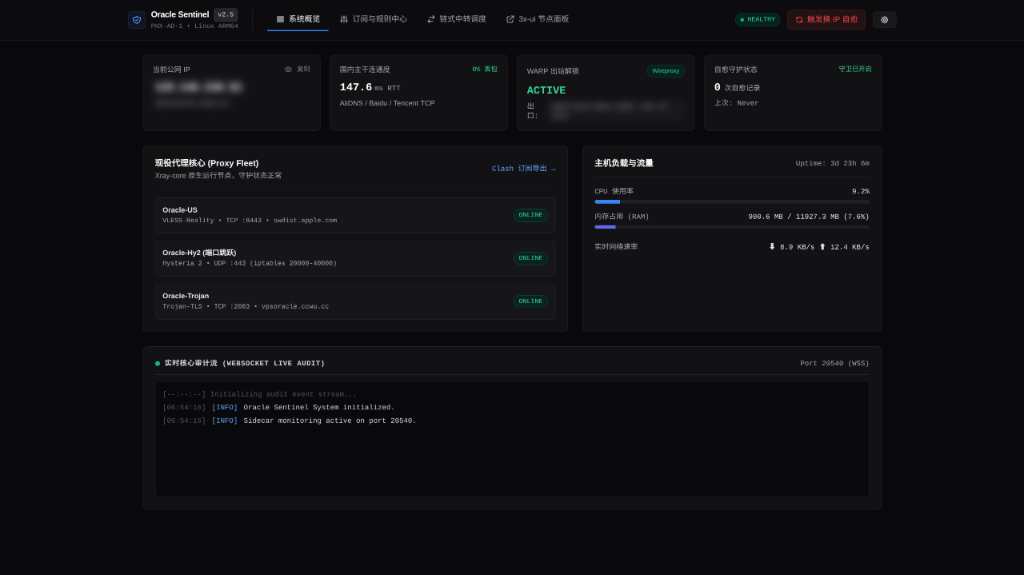
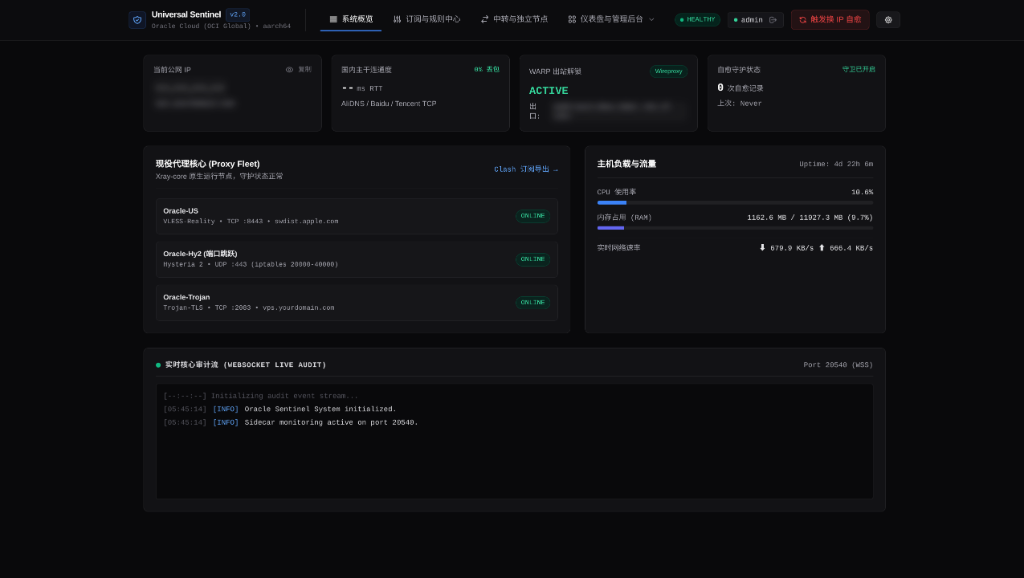
docs: add tab screenshots for overview, services hub, subscription rules and transits nodes

diff --git a/README.md b/README.md
@@ -114,6 +114,12 @@ sudo python3 /opt/vpsentinel/scripts/wizard.py
 
 为彻底压榨 VPS 性能（尤其甲骨文 ARM 12G/24G 大内存机），系统提供了全套进阶优化与容器服务。
 
+<div align="center">
+
+<img src="docs/images/services_hub.png" alt="VPSentinel 仪表盘与管理后台总览" width="100%" style="border-radius: 8px; border: 1px solid #27272a; margin: 12px 0;" />
+
+</div>
+
 ### 1. BBR + TCP 暴力网络加速
 高延迟链路（美西到国内 140~200ms）最大的瓶颈是 Linux 默认的 TCP 缓冲区过小，导致滑动窗口受限跑不满带宽。
 
@@ -232,7 +238,13 @@ cd /opt/containers && docker compose up -d
 
 ## 订阅引擎与客户端适配
 
-在控制面板的【多协议订阅中心】可直接获取各客户端专用链接：
+在控制面板的【多协议订阅中心】可直接获取各客户端专用链接与动态策略组规则：
+
+<div align="center">
+
+<img src="docs/images/sub_rules.png" alt="VPSentinel 订阅与分流规则中心" width="100%" style="border-radius: 8px; border: 1px solid #27272a; margin: 12px 0;" />
+
+</div>
 
 | 客户端 | 订阅路径 | 特性 |
 | :--- | :--- | :--- |
@@ -249,6 +261,12 @@ cd /opt/containers && docker compose up -d
 ---
 
 ## 链式中转与外部独立节点
+
+<div align="center">
+
+<img src="docs/images/transits_nodes.png" alt="VPSentinel 中转调度与独立节点管理" width="100%" style="border-radius: 8px; border: 1px solid #27272a; margin: 12px 0;" />
+
+</div>
 
 ### 1. 国内中转机一键配置 (Realm)
 在中转跳板机（国内轻量云、NAT VPS、公网软路由）上执行：
